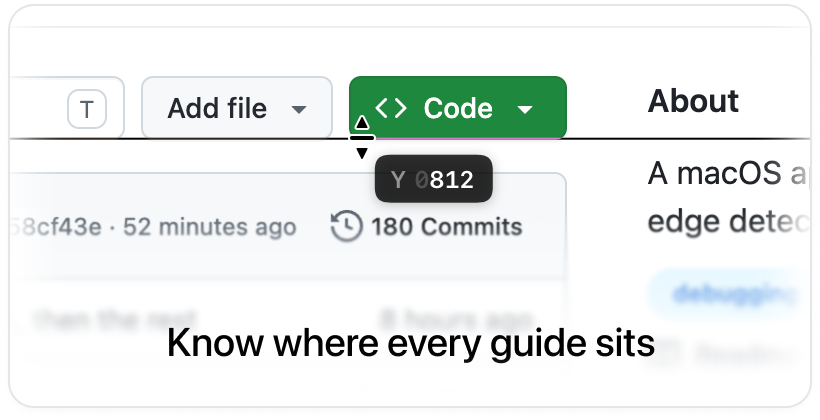
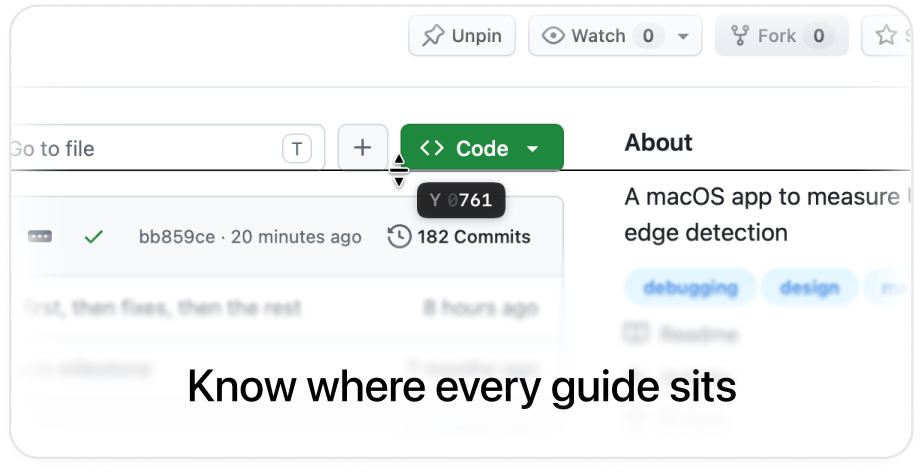
docs(readme): dark mode screenshots
Each README screenshot now has a dark variant (docs/screenshots/*-dark.png)
in a <picture>, so GitHub shows the one matching the viewer's theme. The
light ones are replaced by shots retaken the same way as the dark ones,
so the pairs match; the alt text follows the new values.

diff --git a/README.md b/README.md
@@ -53,8 +53,8 @@ npm run dev   # builds the Swift package and loads Measure / Alignment Guides in
 Freeze your screen and measure pixel distances between any two edges — instantly.
 
 <p align="center">
-  <img src="docs/screenshots/measure-01.png" width="49%" alt="Hover to measure anything: the crosshair on a button reads W 96 × H 32">
-  <img src="docs/screenshots/measure-02.png" width="49%" alt="Drag to measure areas: selections around a search field and a button read 197 × 32 and 57 × 32">
+  <picture><source media="(prefers-color-scheme: dark)" srcset="docs/screenshots/measure-01-dark.png"><img src="docs/screenshots/measure-01.png" width="49%" alt="Hover to measure anything: the crosshair on a button reads W 32 × H 32"></picture>
+  <picture><source media="(prefers-color-scheme: dark)" srcset="docs/screenshots/measure-02-dark.png"><img src="docs/screenshots/measure-02.png" width="49%" alt="Drag to measure areas: selections around a search field and a button group read 197 × 32 and 57 × 32"></picture>
 </p>
 
 - **Fullscreen overlay** with a frozen screenshot as background — no visual disruption
@@ -72,8 +72,8 @@ Freeze your screen and measure pixel distances between any two edges — instant
 Place horizontal and vertical guide lines anywhere on screen to check element alignment.
 
 <p align="center">
-  <img src="docs/screenshots/alignment-guides-01.png" width="49%" alt="Line things up: vertical and horizontal guides in different colors along a sidebar, with the color picker">
-  <img src="docs/screenshots/alignment-guides-02.png" width="49%" alt="Know where every guide sits: a horizontal guide along two buttons with its Y 812 position pill">
+  <picture><source media="(prefers-color-scheme: dark)" srcset="docs/screenshots/alignment-guides-01-dark.png"><img src="docs/screenshots/alignment-guides-01.png" width="49%" alt="Line things up: vertical and horizontal guides in different colors along a sidebar, with the color picker"></picture>
+  <picture><source media="(prefers-color-scheme: dark)" srcset="docs/screenshots/alignment-guides-02-dark.png"><img src="docs/screenshots/alignment-guides-02.png" width="49%" alt="Know where every guide sits: a horizontal guide along two buttons with its Y 761 position pill"></picture>
 </p>
 
 - **Fullscreen overlay** — click anywhere to place a guide line
